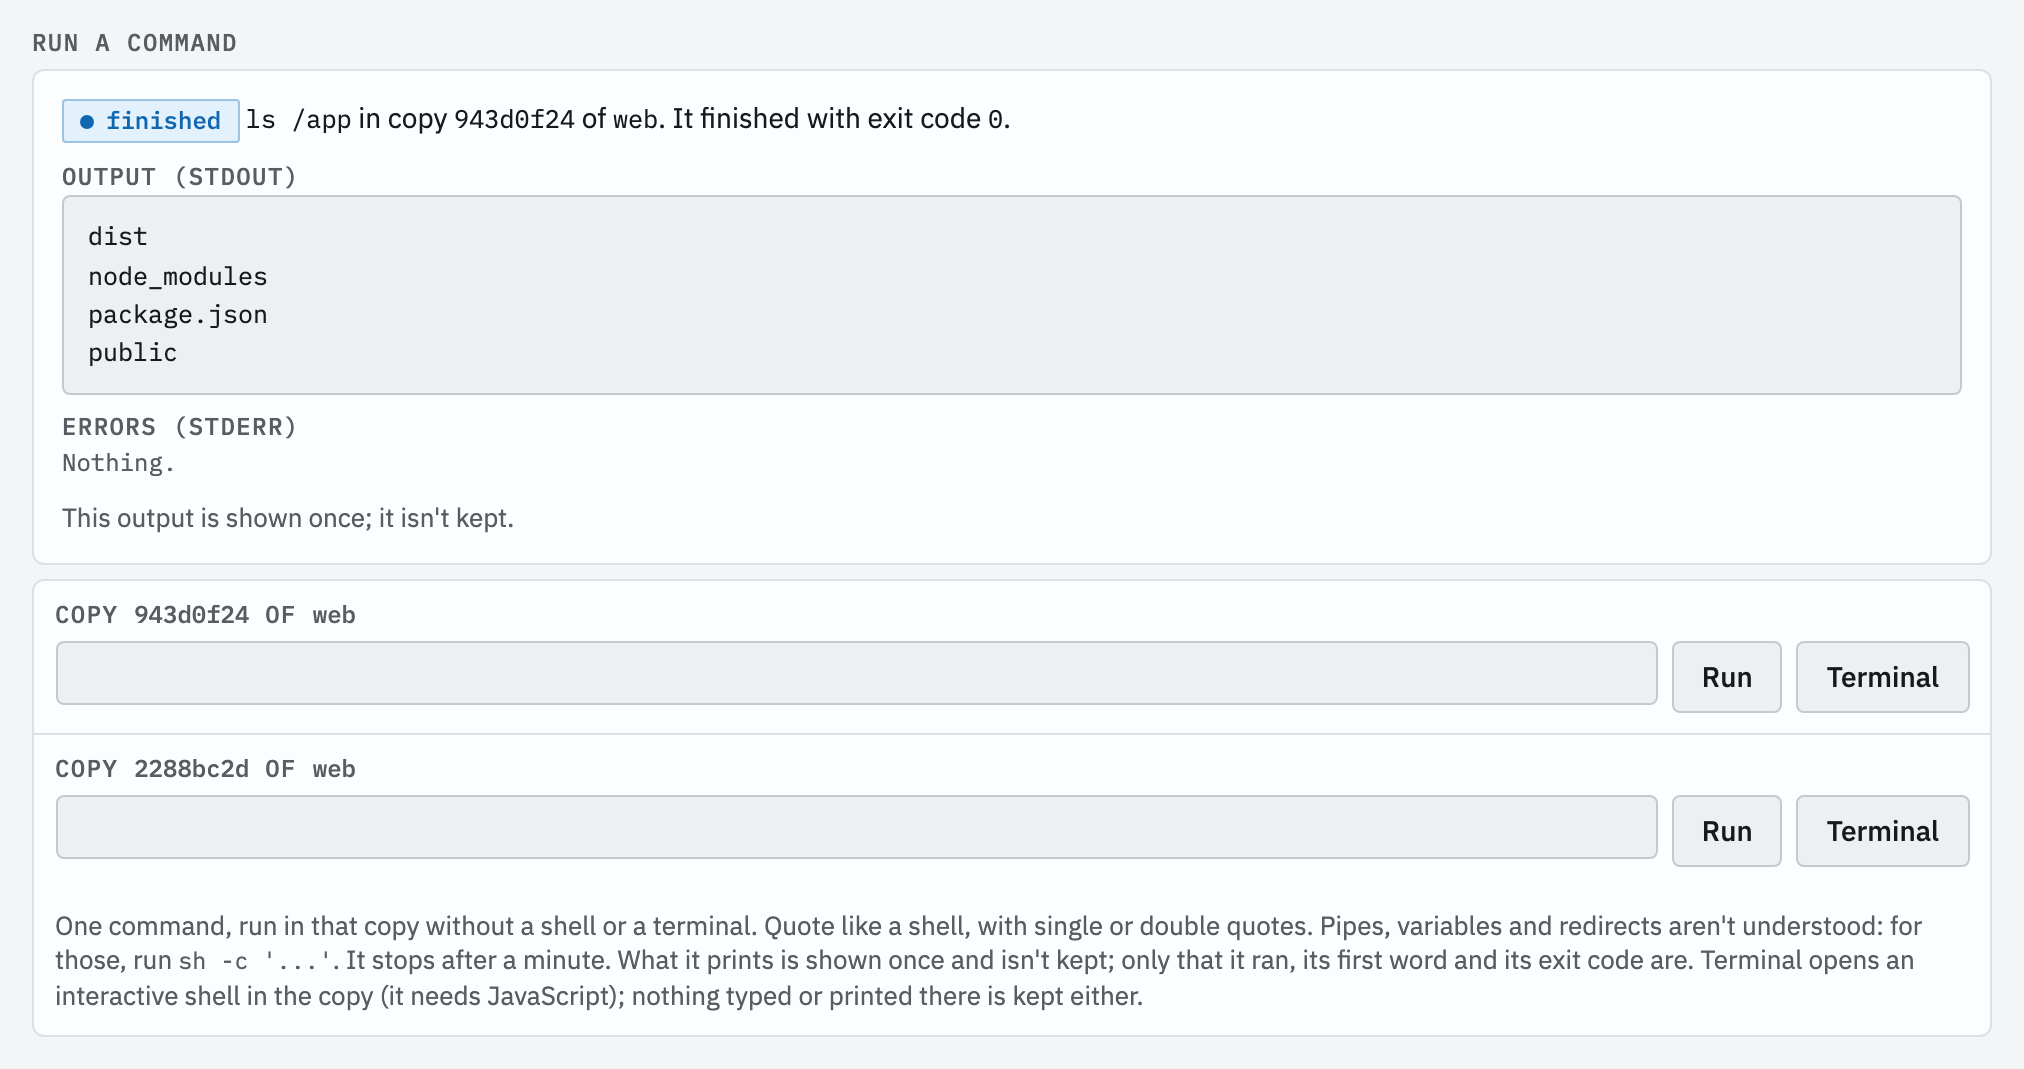
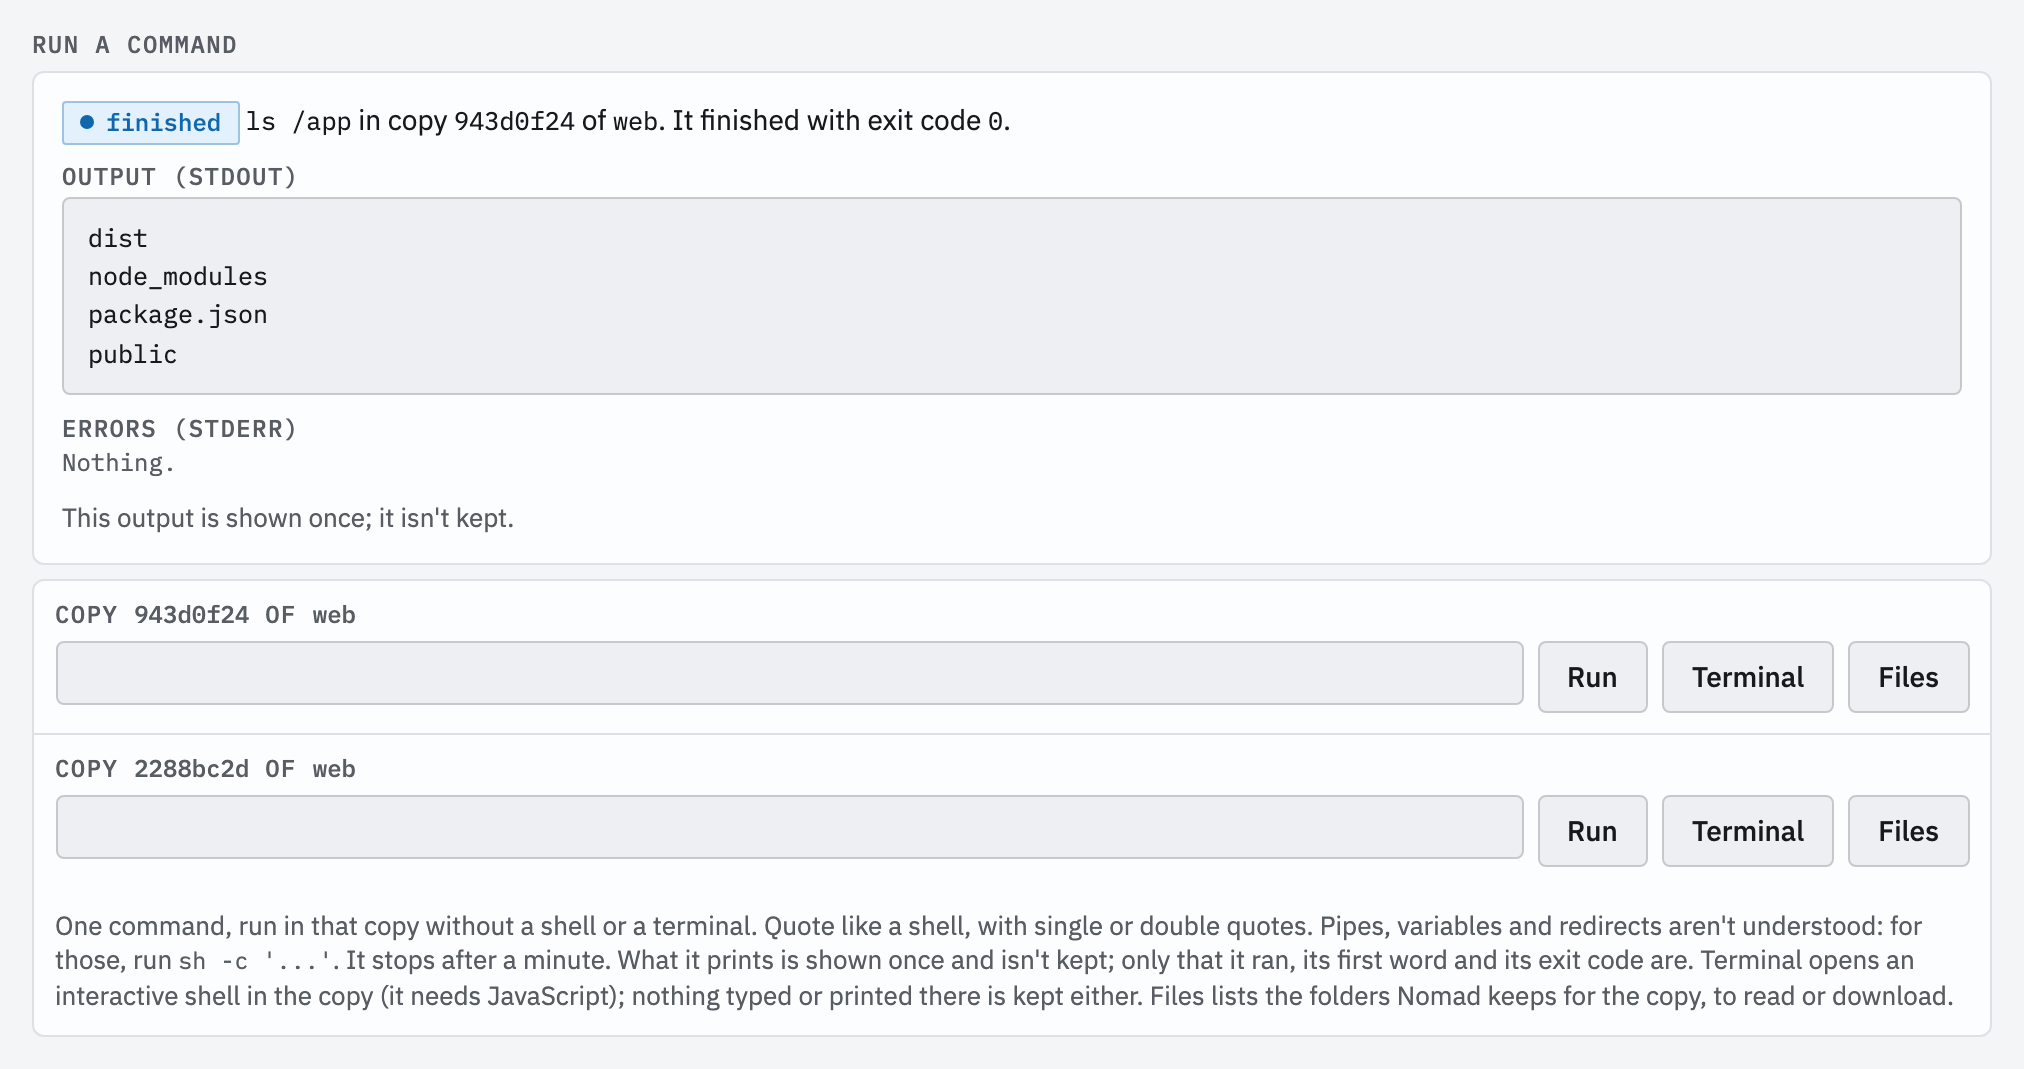
docs: screenshots of the Files page of a copy
The demo console's first web copy gets a small file tree (its log files, a data file, web/local/config.json). New pictures app-files (the folder alloc/logs) and app-files-view (a text file opened), placed in the Files section of guide/operate/commands.md. app-running and run-command are retaken: each copy's row has the Files button.

diff --git a/internal/ui/docsdemo_data_test.go b/internal/ui/docsdemo_data_test.go
@@ -111,6 +111,15 @@ func (d *docsDemo) seedDocsLogs(webIDs, apiIDs, stagingIDs []string) {
 	}
 }
 
+// seedDocsFiles gives the first copy of web in production the few files a small web app leaves in the
+// folders Nomad keeps: an empty error log beside the output log (seedDocsLogs), a note in alloc/data,
+// and a config file in the task's local folder. Nothing in them is secret.
+func (d *docsDemo) seedDocsFiles(copyID string) {
+	d.Nomad.WriteAllocFile(copyID, "alloc/logs/web.stderr.0", "")
+	d.Nomad.WriteAllocFile(copyID, "alloc/data/last-deploy.txt", "deployed 5 hours ago\nversion 2\n")
+	d.Nomad.WriteAllocFile(copyID, "web/local/config.json", "{\n  \"site\": \"shop.example.com\",\n  \"currency\": \"EUR\",\n  \"cacheSeconds\": 60,\n  \"mailFrom\": \"orders@shop.example.com\"\n}\n")
+}
+
 // searchLogLines is what a quiet single-node OpenSearch prints: a flush or a refresh every few
 // minutes and one slow query.
 func (d *docsDemo) searchLogLines(seed string, span time.Duration) ([]string, time.Time) {

diff --git a/internal/ui/docsdemo_test.go b/internal/ui/docsdemo_test.go
@@ -238,6 +238,7 @@ func seedDocsDemo(t *testing.T, d *docsDemo) {
 	d.seedDocsPreview(t)
 	d.seedDocsDomains(t)
 	d.seedDocsLogs(d.webIDs, d.apiIDs, d.stagingIDs)
+	d.seedDocsFiles(d.webIDs[0])
 	d.seedDocsRequests()
 	d.seedDocsBackups(t)
 	d.seedDocsSchedules(t)

diff --git a/docs/guide/operate/commands.md b/docs/guide/operate/commands.md
@@ -105,6 +105,11 @@ Next to **Terminal**, each copy has a **Files** link: a page, "Files in web", th
 for that copy, to read a file or download it. It is for finding a config file, a crash dump or an export
 without opening a terminal. It reads only: you cannot edit or upload a file here.
 
+<picture>
+  <source media="(prefers-color-scheme: dark)" srcset="../../images/app-files-dark.png">
+  <img alt="The Files page of a copy of the web app, open at the folder alloc/logs. The path above the list reads copy, alloc, logs. The list has four files, each with its size and time: .web.stdout.fifo, a pipe that is not opened, then names.stdout.0, web.stderr.0 (empty) and web.stdout.0 (4.2 KB), which have a Download button." src="../../images/app-files-light.png" width="760">
+</picture>
+
 - **What is there.** The folders of the copy's directory: `alloc`, which the copy's tasks share (`data`, `logs`
   and `tmp`: what an app writes to `/alloc/data`, and its output logs), and one folder for each task with its
   `local` and `tmp` files. In `local` you find the files a service defines (Caravana puts them in
@@ -123,6 +128,11 @@ without opening a terminal. It reads only: you cannot edit or upload a file here
   stored or put in a notice.
 - **It needs no script.** Every folder and file is a plain link. Over the API the same two reads are
   `listCopyFiles` and `downloadCopyFile`.
+
+<picture>
+  <source media="(prefers-color-scheme: dark)" srcset="../../images/app-files-view-dark.png">
+  <img alt="A text file opened on its own page: config.json in the folder web/local of the copy, 117 bytes, with a Download button, and its content, a small JSON object with the site name, currency and cache time, shown below." src="../../images/app-files-view-light.png" width="640">
+</picture>
 
 ## Recent actions
 
